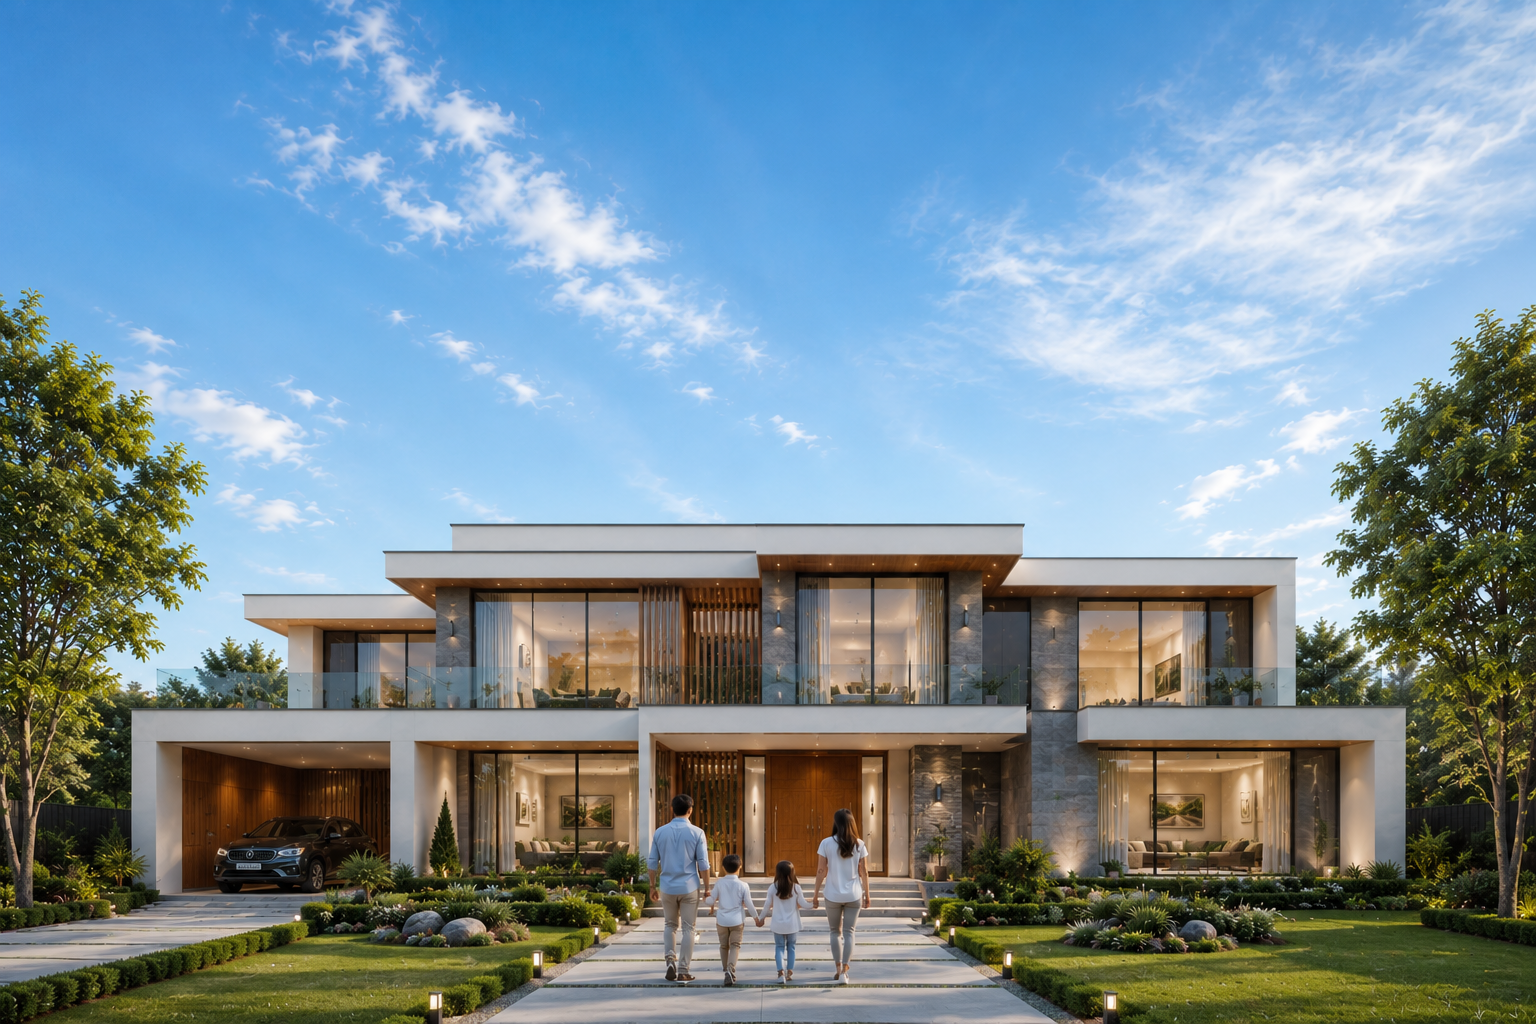
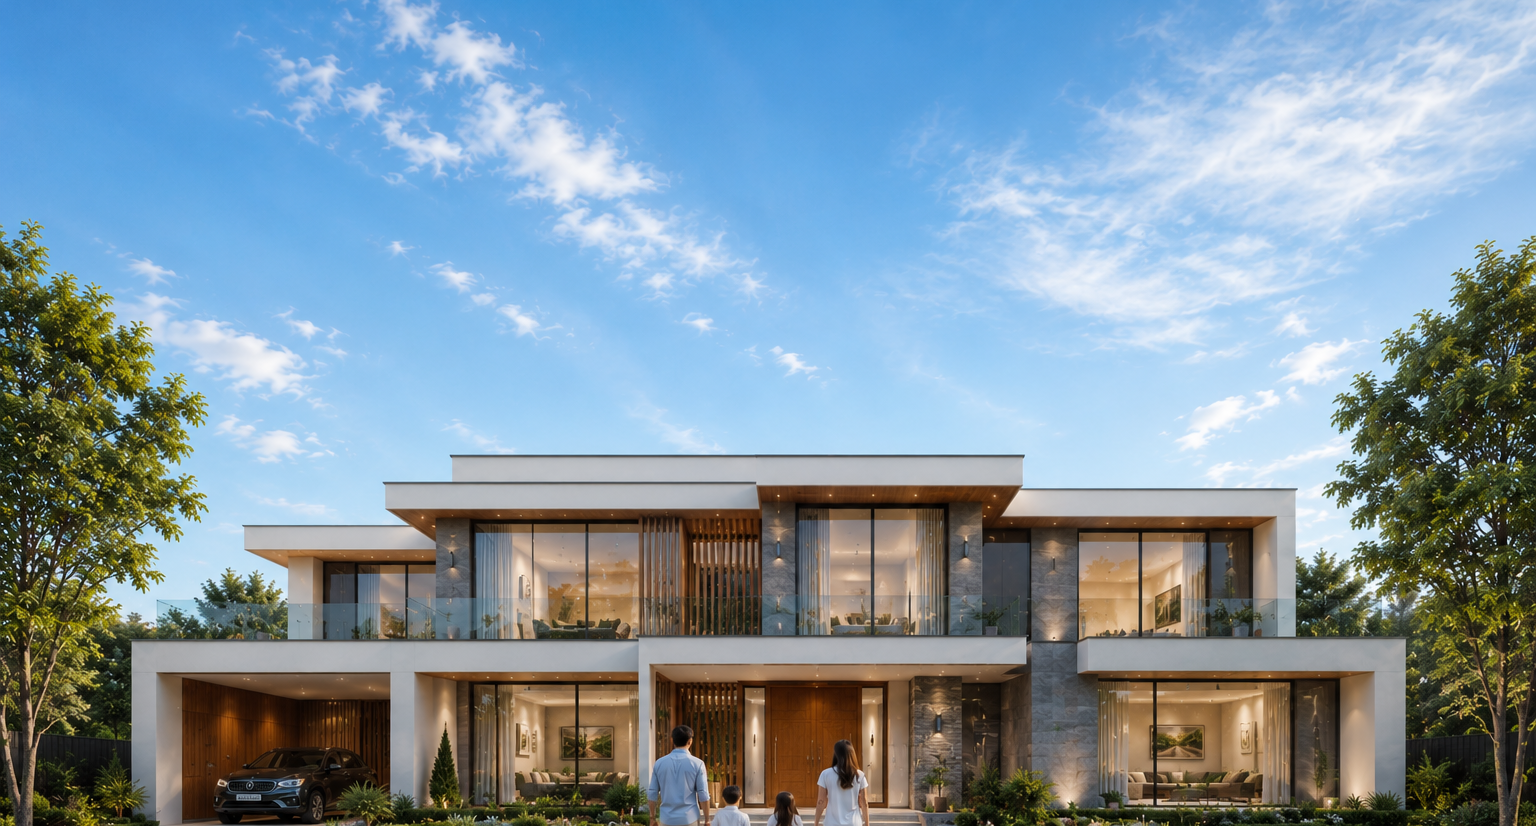
feat: update hero section images for improved responsiveness and replace deprecated files

diff --git a/src/components/site/home/hero-section.tsx b/src/components/site/home/hero-section.tsx
@@ -96,9 +96,9 @@ export function HeroSection({ sublocations, unitTypes }: HeroSectionProps) {
 
       {/* ── Hero background image (responsive) ─────────────────── */}
       <picture>
-        <source media="(max-width: 767px)" srcSet="/assets/images/hero/hero_mobile.webp" />
+        <source media="(max-width: 767px)" srcSet="/assets/images/hero/hero_mobile.png" />
         <img
-          src="/assets/images/hero/hero_desktop1.png"
+          src="/assets/images/hero/hero_desktop.png"
           alt="Majestan Realty — Properties"
           className="absolute inset-0 w-full h-full object-cover object-center select-none pointer-events-none"
           fetchPriority="high"
